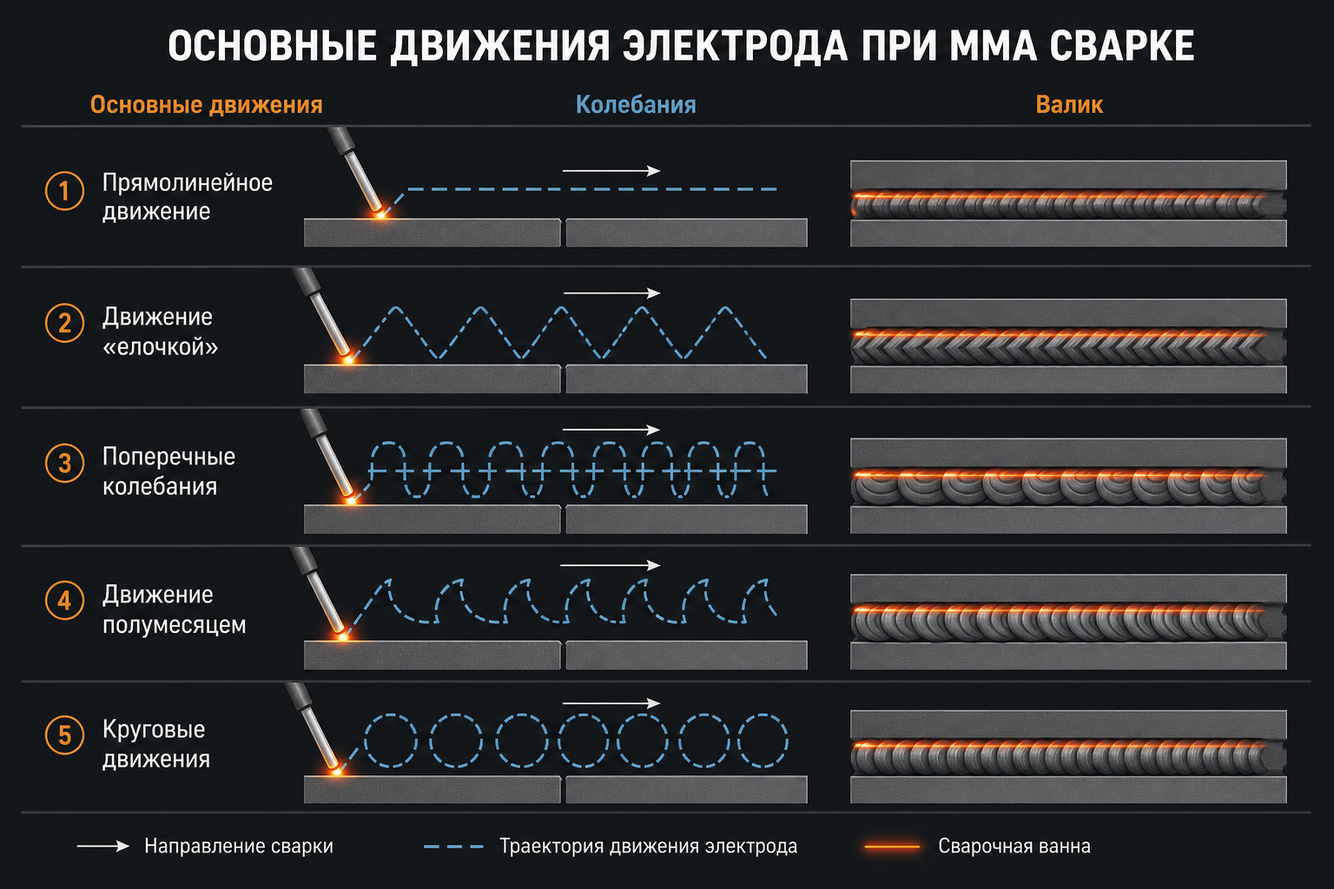
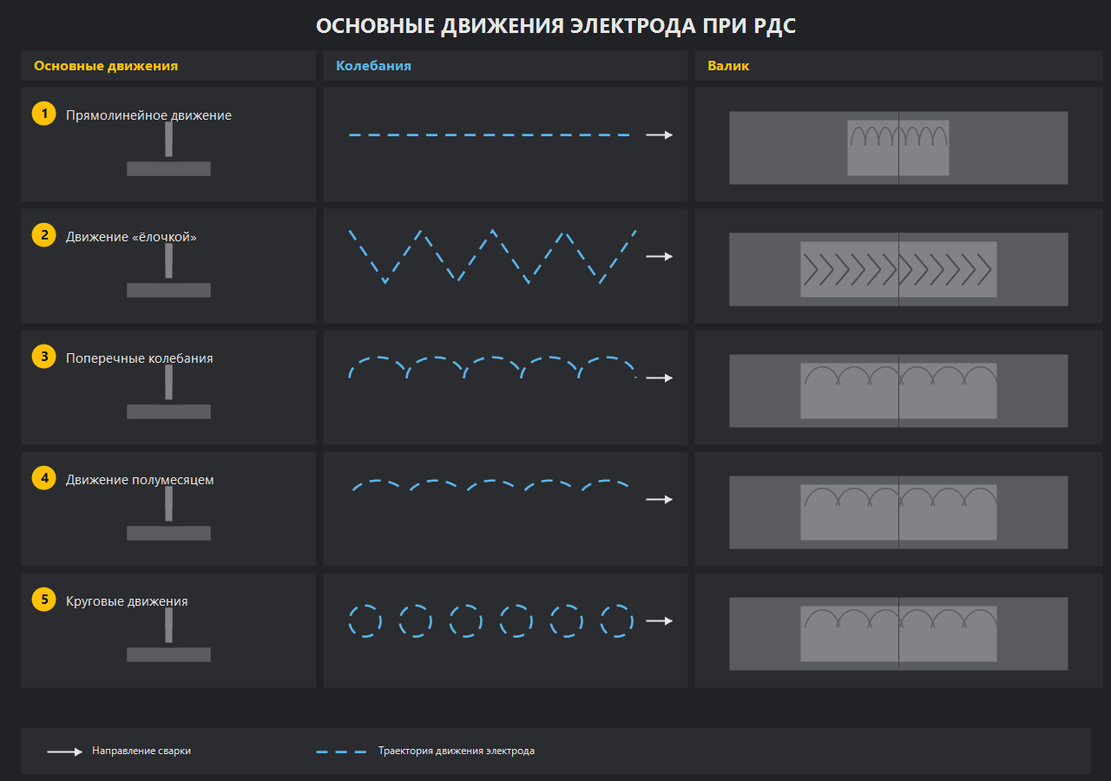
Update MMA technique lesson: fix oscillation art, add multipass figure (v37).

diff --git a/docs/js/lms-data.js b/docs/js/lms-data.js
@@ -1,4 +1,4 @@
-/* LMS data v36: + Kolganov cross-check; tech materials course in lms-data-techmat.js */
+/* LMS data v37: + Kolganov cross-check; tech materials course in lms-data-techmat.js */
 window.LMS_DATA = {
   "version": 25,
   "generatedAt": "2026-09-23",
@@ -3690,17 +3690,8 @@ window.LMS_DATA = {
           "id": "mma-3",
           "title": "Техника выполнения РДС",
           "minutes": 34,
-          "images": [
-            {
-              "src": "./images/generated/mma-technique.png",
-              "caption": "Возбуждение дуги и ведение электрода"
-            },
-            {
-              "src": "./images/generated/mma-oscillations.png",
-              "caption": "Основные и колебательные движения электрода"
-            }
-          ],
-          "html": "<h2>Техника выполнения РДС</h2>\n<p>Техника ручной дуговой сварки — согласованная работа угла электрода, длины дуги, скорости перемещения и способа колебаний. Даже верно выбранный ток не исправит шов, если дуга «гуляет», скорость рваная, колебания хаотичны или кратер оставлен пустым. Сварщик непрерывно корректирует положение руки, потому что по мере плавления электрод укорачивается, а ванна мгновенно реагирует на изменение тепловложения и защиты.</p>\n\n<h3>Возбуждение дуги и длина дуги</h3>\n<p>Способ возбуждения дуги, который снижает риск прилипания электрода, — касание с последующим быстрым отводом или чирканье в зоне начала шва либо на технологической пластине с переносом дуги. Удержание электрода неподвижно на металле почти гарантирует залипание; начинать поперечные колебания до зажигания бессмысленно. После возбуждения сразу выходят на рабочую длину дуги и заданный угол.</p>\n\n<p>Практическая ориентировочная длина дуги при обычной РДС — около диаметра электрода, с учётом марки и положения: чуть короче на ответственных основных электродах и в потолке, с уточнением по паспорту марки. Чрезмерно длинная дуга опасна тем, что ухудшает защиту, увеличивает разбрызгивание и риск пористости: газовая оболочка и шлак формируются хуже, дуга блуждает по кромкам. Слишком короткая дуга характерна риском залипания электрода и нестабильного формирования — торец «садится» в ванну, шов получается неровным. Признак, указывающий на необходимость корректировать технику, а не только ток, — неритмичный валик при меняющейся длине дуги: сначала стабилизируют руку и дугу, затем уточняют силу тока.</p>\n\n<h3>Угол, скорость и колебания</h3>\n<p>При сварке напроход обычно применяют небольшой наклон электрода в сторону направления движения, если технология не предписывает иное (часто порядка 15–30° от вертикали в нижнем положении — углом вперёд или назад по задаче). Строго 90° во всех случаях не требуется; параллельно поверхности изделие не ведут.</p>\n\n<p>Поперечные колебания электрода выполняют для формирования нужной ширины валика и сплавления кромок. Задержки у кромок при колебаниях должны быть контролируемыми: они обеспечивают сплавление кромок, но избыток может вызвать подрез или наплыв. Нельзя вести электрод только по центру широкой разделки без колебаний — можно получить недостаточное сплавление с боковыми стенками. Чрезмерная амплитуда колебаний может привести к наплывам и недостаточному проплавлению в центре: ванна размазывается по ширине, а середина стыка недогревается.</p>\n\n<p>Цель поддержания равномерной скорости перемещения — стабильные размеры валика и тепловложение. Неравномерную ширину валика чаще вызывает нестабильная скорость перемещения и амплитуда колебаний. Высокая скорость «тянет» узкий валик с риском непровара; чрезмерно низкая раздувает шов и повышает риск прожога на тонком металле.</p>\n\n<h3>Кратер, смена электрода, корень и многопроходная сварка</h3>\n<p>Чтобы уменьшить риск кратерной трещины, проход правильно завершают так: заполнить кратер обратным движением или приемом, предусмотренным технологией — укоротить дугу, слегка вернуть электрод и добрать металл в углубление. При заполнении кратера электрод направляют так, чтобы металл заполнил углубление до обрыва дуги. Резкий обрыв на максимальном токе без заполнения оставляет усадочную раковину и концентратор для трещины.</p>\n\n<p>В многопроходном шве каждый предыдущий валик очищают для удаления шлака и выявления дефектов до следующего прохода. Если в конце валика обнаружен шлак до наложения следующего слоя, участок зачищают и удаляют дефектный металл при необходимости — заваривать поверх шлака повышенным током нельзя. При смене электрода, чтобы избежать дефекта в стыке валиков, начинают новый валик с перекрытием очищенного окончания предыдущего. Место возбуждения дуги вне шва зачищают, чтобы удалить случайный поджог, который может стать концентратором напряжений.</p>\n\n<p>При корневом проходе особенно контролируют сплавление обеих кромок и формирование корня без прожога: зазор, притупление, ток и скорость должны соответствовать разделке. Разумная последовательность многопроходной сварки: корень, очистка и контроль, заполняющие проходы, очистка, облицовка. В вертикальном положении чаще варят снизу вверх короткой дугой, контролируя стекание ванны; в потолке уменьшают ток и держат особенно короткую дугу; на горизонтальном стыке опирают валик на нижнюю кромку и аккуратно распределяют тепло.</p>\n\n<p>Устойчивая техника начинается с возбуждения. Касание с последующим быстрым отводом или чирканье снижает риск прилипания электрода и сразу выводит на рабочую длину дуги. Далее держат дугу около диаметра электрода с учётом марки и положения. Если дуга чрезмерно длинная, ухудшается защита, растут разбрызгивание и риск пористости; если слишком короткая — появляется риск залипания электрода и нестабильного формирования валика. Неритмичный валик при меняющейся длине дуги — сигнал править технику, а не крутить ток наугад.</p>\n<p>В нижнем положении при сварке напроход обычно задают небольшой наклон электрода в сторону направления движения, если технология не предписывает иное. Ниточный валик кладут без поперечных колебаний; широкий шов — с колебаниями для формирования нужной ширины валика и сплавления кромок. Задержки у кромок контролируют: они нужны для сплавления, но избыток даёт подрез или наплыв. Вести электрод только по центру широкой разделки без колебаний нельзя — можно получить недостаточное сплавление с боковыми стенками. Чрезмерная амплитуда колебаний может привести к наплывам и недостаточному проплавлению в центре.</p>\n<p>Равномерная скорость перемещения обеспечивает стабильные размеры валика и тепловложение. Скачки скорости и амплитуды — частая причина неравномерной ширины валика. В конце прохода заполняют кратер обратным движением или приёмом по технологии так, чтобы металл заполнил углубление до обрыва дуги; иначе растёт риск кратерной трещины.</p>\n<p>Многопроходная сварка требует дисциплины очистки. Каждый предыдущий валик очищают для удаления шлака и выявления дефектов до следующего прохода. При обнаружении шлака в конце валика участок зачищают и при необходимости удаляют дефектный металл. Смену электрода выполняют с перекрытием очищенного окончания предыдущего валика. Место случайного возбуждения вне шва зачищают, чтобы удалить поджог — возможный концентратор напряжений. Для корня контролируют сплавление обеих кромок и формирование корня без прожога. Последовательность: корень, очистка и контроль, заполняющие проходы, очистка, облицовка. В вертикали и потолке дополнительно ужесточают контроль длины дуги и стекания ванны.</p>\n\n<h3>Итог урока</h3>\n<p>Техника РДС — короткая устойчивая дуга порядка диаметра электрода, контролируемый угол и равномерная скорость, осмысленные колебания с задержками у кромок, заполнение кратера и обязательная зачистка между проходами. Корень, заполнение и облицовка идут только по очищенному металлу с перекрытием стыков валиков; поджоги вне шва удаляют до продолжения работы.</p>\n<p><em>Источники: учебная практика РДС; пособие по сварке.</em></p>",
+          "images": [],
+          "html": "<h2>Техника выполнения РДС</h2>\n<p>Техника ручной дуговой сварки — согласованная работа угла электрода, длины дуги, скорости перемещения и способа колебаний. Даже верно выбранный ток не исправит шов, если дуга «гуляет», скорость рваная, колебания хаотичны или кратер оставлен пустым.</p>\n\n<figure class=\"lms-figure\"><img src=\"./images/generated/mma-technique.png?v=37\" alt=\"Возбуждение дуги и положение электрода\" loading=\"lazy\" draggable=\"false\" /><figcaption>Возбуждение дуги, короткая дуга, угол наклона</figcaption></figure>\n\n<h3>Возбуждение дуги и длина дуги</h3>\n<p>Способ возбуждения, снижающий риск прилипания, — касание с последующим быстрым отводом или чирканье в зоне начала шва (либо на технологической пластине с переносом дуги). Удержание электрода неподвижно на металле почти гарантирует залипание. После возбуждения сразу выходят на рабочую длину дуги и заданный угол.</p>\n<p>Ориентировочная длина дуги — около диаметра электрода с учётом марки и положения (чуть короче на основных электродах и в потолке). Чрезмерно длинная дуга ухудшает защиту, увеличивает разбрызгивание и риск пористости. Слишком короткая — риск залипания и нестабильного формирования. Неритмичный валик при меняющейся длине дуги — сначала стабилизируют руку и дугу, затем уточняют ток.</p>\n\n<h3>Угол, скорость и колебания</h3>\n<figure class=\"lms-figure\"><img src=\"./images/generated/mma-oscillations.png?v=37\" alt=\"Основные движения электрода при РДС\" loading=\"lazy\" draggable=\"false\" /><figcaption>Основные движения электрода: прямолинейное, «ёлочка», поперечные, полумесяц, круговые</figcaption></figure>\n<p>При сварке напроход обычно применяют небольшой наклон электрода в сторону направления движения (часто порядка 15–30° от вертикали в нижнем положении), если технология не предписывает иное.</p>\n<p>Поперечные колебания выполняют для формирования нужной ширины валика и сплавления кромок. Задержки у кромок контролируют: они обеспечивают сплавление, но избыток может вызвать подрез или наплыв. Нельзя вести электрод только по центру широкой разделки без колебаний — возможен непровар боковых стенок. Чрезмерная амплитуда — наплывы и недостаточное проплавление в центре.</p>\n<p>Равномерная скорость даёт стабильные размеры валика и тепловложение. Высокая скорость — узкий валик и риск непровара; чрезмерно низкая — раздутый шов и риск прожога на тонком металле.</p>\n\n<h3>Кратер, смена электрода, корень и многопроходная сварка</h3>\n<figure class=\"lms-figure\"><img src=\"./images/generated/mma-multipass.png?v=37\" alt=\"Многопроходный шов РДС\" loading=\"lazy\" draggable=\"false\" /><figcaption>Многопроходный шов: корень, заполняющие проходы, облицовка</figcaption></figure>\n<p>Чтобы уменьшить риск кратерной трещины, проход завершают заполнением кратера обратным движением или приёмом по технологии: укоротить дугу, слегка вернуть электрод и добрать металл в углубление до обрыва дуги.</p>\n<p>В многопроходном шве каждый предыдущий валик очищают от шлака и осматривают до следующего прохода. Заваривать поверх шлака нельзя. При смене электрода новый валик начинают с перекрытием очищенного окончания предыдущего. Место случайного возбуждения вне шва зачищают (поджог — концентратор напряжений).</p>\n<p>При корневом проходе контролируют сплавление обеих кромок и формирование корня без прожога. Разумная последовательность: корень → очистка и контроль → заполняющие проходы → очистка → облицовка. В вертикальном положении чаще варят снизу вверх короткой дугой; в потолке уменьшают ток и держат особенно короткую дугу.</p>\n\n<h3>Итог урока</h3>\n<ul>\n<li>Короткая устойчивая дуга порядка диаметра электрода, контролируемый угол и равномерная скорость.</li>\n<li>Колебания — для ширины валика и сплавления кромок; задержки у кромок без избытка.</li>\n<li>Кратер заполняют; между проходами — обязательная зачистка шлака.</li>\n<li>Многопроходный шов: корень, заполнение, облицовка только по очищенному металлу с перекрытием стыков валиков.</li>\n</ul>\n<p><em>Источники: учебная практика РДС; пособие по сварке.</em></p>",
           "quiz": {
             "id": "mma-3-q",
             "title": "Мини-тест: техника РДС",

diff --git a/js/lms-data.js b/js/lms-data.js
@@ -1,4 +1,4 @@
-/* LMS data v36: + Kolganov cross-check; tech materials course in lms-data-techmat.js */
+/* LMS data v37: + Kolganov cross-check; tech materials course in lms-data-techmat.js */
 window.LMS_DATA = {
   "version": 25,
   "generatedAt": "2026-09-23",
@@ -3690,17 +3690,8 @@ window.LMS_DATA = {
           "id": "mma-3",
           "title": "Техника выполнения РДС",
           "minutes": 34,
-          "images": [
-            {
-              "src": "./images/generated/mma-technique.png",
-              "caption": "Возбуждение дуги и ведение электрода"
-            },
-            {
-              "src": "./images/generated/mma-oscillations.png",
-              "caption": "Основные и колебательные движения электрода"
-            }
-          ],
-          "html": "<h2>Техника выполнения РДС</h2>\n<p>Техника ручной дуговой сварки — согласованная работа угла электрода, длины дуги, скорости перемещения и способа колебаний. Даже верно выбранный ток не исправит шов, если дуга «гуляет», скорость рваная, колебания хаотичны или кратер оставлен пустым. Сварщик непрерывно корректирует положение руки, потому что по мере плавления электрод укорачивается, а ванна мгновенно реагирует на изменение тепловложения и защиты.</p>\n\n<h3>Возбуждение дуги и длина дуги</h3>\n<p>Способ возбуждения дуги, который снижает риск прилипания электрода, — касание с последующим быстрым отводом или чирканье в зоне начала шва либо на технологической пластине с переносом дуги. Удержание электрода неподвижно на металле почти гарантирует залипание; начинать поперечные колебания до зажигания бессмысленно. После возбуждения сразу выходят на рабочую длину дуги и заданный угол.</p>\n\n<p>Практическая ориентировочная длина дуги при обычной РДС — около диаметра электрода, с учётом марки и положения: чуть короче на ответственных основных электродах и в потолке, с уточнением по паспорту марки. Чрезмерно длинная дуга опасна тем, что ухудшает защиту, увеличивает разбрызгивание и риск пористости: газовая оболочка и шлак формируются хуже, дуга блуждает по кромкам. Слишком короткая дуга характерна риском залипания электрода и нестабильного формирования — торец «садится» в ванну, шов получается неровным. Признак, указывающий на необходимость корректировать технику, а не только ток, — неритмичный валик при меняющейся длине дуги: сначала стабилизируют руку и дугу, затем уточняют силу тока.</p>\n\n<h3>Угол, скорость и колебания</h3>\n<p>При сварке напроход обычно применяют небольшой наклон электрода в сторону направления движения, если технология не предписывает иное (часто порядка 15–30° от вертикали в нижнем положении — углом вперёд или назад по задаче). Строго 90° во всех случаях не требуется; параллельно поверхности изделие не ведут.</p>\n\n<p>Поперечные колебания электрода выполняют для формирования нужной ширины валика и сплавления кромок. Задержки у кромок при колебаниях должны быть контролируемыми: они обеспечивают сплавление кромок, но избыток может вызвать подрез или наплыв. Нельзя вести электрод только по центру широкой разделки без колебаний — можно получить недостаточное сплавление с боковыми стенками. Чрезмерная амплитуда колебаний может привести к наплывам и недостаточному проплавлению в центре: ванна размазывается по ширине, а середина стыка недогревается.</p>\n\n<p>Цель поддержания равномерной скорости перемещения — стабильные размеры валика и тепловложение. Неравномерную ширину валика чаще вызывает нестабильная скорость перемещения и амплитуда колебаний. Высокая скорость «тянет» узкий валик с риском непровара; чрезмерно низкая раздувает шов и повышает риск прожога на тонком металле.</p>\n\n<h3>Кратер, смена электрода, корень и многопроходная сварка</h3>\n<p>Чтобы уменьшить риск кратерной трещины, проход правильно завершают так: заполнить кратер обратным движением или приемом, предусмотренным технологией — укоротить дугу, слегка вернуть электрод и добрать металл в углубление. При заполнении кратера электрод направляют так, чтобы металл заполнил углубление до обрыва дуги. Резкий обрыв на максимальном токе без заполнения оставляет усадочную раковину и концентратор для трещины.</p>\n\n<p>В многопроходном шве каждый предыдущий валик очищают для удаления шлака и выявления дефектов до следующего прохода. Если в конце валика обнаружен шлак до наложения следующего слоя, участок зачищают и удаляют дефектный металл при необходимости — заваривать поверх шлака повышенным током нельзя. При смене электрода, чтобы избежать дефекта в стыке валиков, начинают новый валик с перекрытием очищенного окончания предыдущего. Место возбуждения дуги вне шва зачищают, чтобы удалить случайный поджог, который может стать концентратором напряжений.</p>\n\n<p>При корневом проходе особенно контролируют сплавление обеих кромок и формирование корня без прожога: зазор, притупление, ток и скорость должны соответствовать разделке. Разумная последовательность многопроходной сварки: корень, очистка и контроль, заполняющие проходы, очистка, облицовка. В вертикальном положении чаще варят снизу вверх короткой дугой, контролируя стекание ванны; в потолке уменьшают ток и держат особенно короткую дугу; на горизонтальном стыке опирают валик на нижнюю кромку и аккуратно распределяют тепло.</p>\n\n<p>Устойчивая техника начинается с возбуждения. Касание с последующим быстрым отводом или чирканье снижает риск прилипания электрода и сразу выводит на рабочую длину дуги. Далее держат дугу около диаметра электрода с учётом марки и положения. Если дуга чрезмерно длинная, ухудшается защита, растут разбрызгивание и риск пористости; если слишком короткая — появляется риск залипания электрода и нестабильного формирования валика. Неритмичный валик при меняющейся длине дуги — сигнал править технику, а не крутить ток наугад.</p>\n<p>В нижнем положении при сварке напроход обычно задают небольшой наклон электрода в сторону направления движения, если технология не предписывает иное. Ниточный валик кладут без поперечных колебаний; широкий шов — с колебаниями для формирования нужной ширины валика и сплавления кромок. Задержки у кромок контролируют: они нужны для сплавления, но избыток даёт подрез или наплыв. Вести электрод только по центру широкой разделки без колебаний нельзя — можно получить недостаточное сплавление с боковыми стенками. Чрезмерная амплитуда колебаний может привести к наплывам и недостаточному проплавлению в центре.</p>\n<p>Равномерная скорость перемещения обеспечивает стабильные размеры валика и тепловложение. Скачки скорости и амплитуды — частая причина неравномерной ширины валика. В конце прохода заполняют кратер обратным движением или приёмом по технологии так, чтобы металл заполнил углубление до обрыва дуги; иначе растёт риск кратерной трещины.</p>\n<p>Многопроходная сварка требует дисциплины очистки. Каждый предыдущий валик очищают для удаления шлака и выявления дефектов до следующего прохода. При обнаружении шлака в конце валика участок зачищают и при необходимости удаляют дефектный металл. Смену электрода выполняют с перекрытием очищенного окончания предыдущего валика. Место случайного возбуждения вне шва зачищают, чтобы удалить поджог — возможный концентратор напряжений. Для корня контролируют сплавление обеих кромок и формирование корня без прожога. Последовательность: корень, очистка и контроль, заполняющие проходы, очистка, облицовка. В вертикали и потолке дополнительно ужесточают контроль длины дуги и стекания ванны.</p>\n\n<h3>Итог урока</h3>\n<p>Техника РДС — короткая устойчивая дуга порядка диаметра электрода, контролируемый угол и равномерная скорость, осмысленные колебания с задержками у кромок, заполнение кратера и обязательная зачистка между проходами. Корень, заполнение и облицовка идут только по очищенному металлу с перекрытием стыков валиков; поджоги вне шва удаляют до продолжения работы.</p>\n<p><em>Источники: учебная практика РДС; пособие по сварке.</em></p>",
+          "images": [],
+          "html": "<h2>Техника выполнения РДС</h2>\n<p>Техника ручной дуговой сварки — согласованная работа угла электрода, длины дуги, скорости перемещения и способа колебаний. Даже верно выбранный ток не исправит шов, если дуга «гуляет», скорость рваная, колебания хаотичны или кратер оставлен пустым.</p>\n\n<figure class=\"lms-figure\"><img src=\"./images/generated/mma-technique.png?v=37\" alt=\"Возбуждение дуги и положение электрода\" loading=\"lazy\" draggable=\"false\" /><figcaption>Возбуждение дуги, короткая дуга, угол наклона</figcaption></figure>\n\n<h3>Возбуждение дуги и длина дуги</h3>\n<p>Способ возбуждения, снижающий риск прилипания, — касание с последующим быстрым отводом или чирканье в зоне начала шва (либо на технологической пластине с переносом дуги). Удержание электрода неподвижно на металле почти гарантирует залипание. После возбуждения сразу выходят на рабочую длину дуги и заданный угол.</p>\n<p>Ориентировочная длина дуги — около диаметра электрода с учётом марки и положения (чуть короче на основных электродах и в потолке). Чрезмерно длинная дуга ухудшает защиту, увеличивает разбрызгивание и риск пористости. Слишком короткая — риск залипания и нестабильного формирования. Неритмичный валик при меняющейся длине дуги — сначала стабилизируют руку и дугу, затем уточняют ток.</p>\n\n<h3>Угол, скорость и колебания</h3>\n<figure class=\"lms-figure\"><img src=\"./images/generated/mma-oscillations.png?v=37\" alt=\"Основные движения электрода при РДС\" loading=\"lazy\" draggable=\"false\" /><figcaption>Основные движения электрода: прямолинейное, «ёлочка», поперечные, полумесяц, круговые</figcaption></figure>\n<p>При сварке напроход обычно применяют небольшой наклон электрода в сторону направления движения (часто порядка 15–30° от вертикали в нижнем положении), если технология не предписывает иное.</p>\n<p>Поперечные колебания выполняют для формирования нужной ширины валика и сплавления кромок. Задержки у кромок контролируют: они обеспечивают сплавление, но избыток может вызвать подрез или наплыв. Нельзя вести электрод только по центру широкой разделки без колебаний — возможен непровар боковых стенок. Чрезмерная амплитуда — наплывы и недостаточное проплавление в центре.</p>\n<p>Равномерная скорость даёт стабильные размеры валика и тепловложение. Высокая скорость — узкий валик и риск непровара; чрезмерно низкая — раздутый шов и риск прожога на тонком металле.</p>\n\n<h3>Кратер, смена электрода, корень и многопроходная сварка</h3>\n<figure class=\"lms-figure\"><img src=\"./images/generated/mma-multipass.png?v=37\" alt=\"Многопроходный шов РДС\" loading=\"lazy\" draggable=\"false\" /><figcaption>Многопроходный шов: корень, заполняющие проходы, облицовка</figcaption></figure>\n<p>Чтобы уменьшить риск кратерной трещины, проход завершают заполнением кратера обратным движением или приёмом по технологии: укоротить дугу, слегка вернуть электрод и добрать металл в углубление до обрыва дуги.</p>\n<p>В многопроходном шве каждый предыдущий валик очищают от шлака и осматривают до следующего прохода. Заваривать поверх шлака нельзя. При смене электрода новый валик начинают с перекрытием очищенного окончания предыдущего. Место случайного возбуждения вне шва зачищают (поджог — концентратор напряжений).</p>\n<p>При корневом проходе контролируют сплавление обеих кромок и формирование корня без прожога. Разумная последовательность: корень → очистка и контроль → заполняющие проходы → очистка → облицовка. В вертикальном положении чаще варят снизу вверх короткой дугой; в потолке уменьшают ток и держат особенно короткую дугу.</p>\n\n<h3>Итог урока</h3>\n<ul>\n<li>Короткая устойчивая дуга порядка диаметра электрода, контролируемый угол и равномерная скорость.</li>\n<li>Колебания — для ширины валика и сплавления кромок; задержки у кромок без избытка.</li>\n<li>Кратер заполняют; между проходами — обязательная зачистка шлака.</li>\n<li>Многопроходный шов: корень, заполнение, облицовка только по очищенному металлу с перекрытием стыков валиков.</li>\n</ul>\n<p><em>Источники: учебная практика РДС; пособие по сварке.</em></p>",
           "quiz": {
             "id": "mma-3-q",
             "title": "Мини-тест: техника РДС",

diff --git a/docs/index.html b/docs/index.html
@@ -69,7 +69,7 @@
     </p>
   </footer>
 
-  <script src="./js/lms-data.js?v=36"></script>
+  <script src="./js/lms-data.js?v=37"></script>
   <script src="./js/lms-data-techmat.js?v=25"></script>
   <script src="./js/lms-auth.js?v=25"></script>
   <script src="./js/lms.js?v=25"></script>

diff --git a/index.html b/index.html
@@ -69,7 +69,7 @@
     </p>
   </footer>
 
-  <script src="./js/lms-data.js?v=36"></script>
+  <script src="./js/lms-data.js?v=37"></script>
   <script src="./js/lms-data-techmat.js?v=25"></script>
   <script src="./js/lms-auth.js?v=25"></script>
   <script src="./js/lms.js?v=25"></script>
